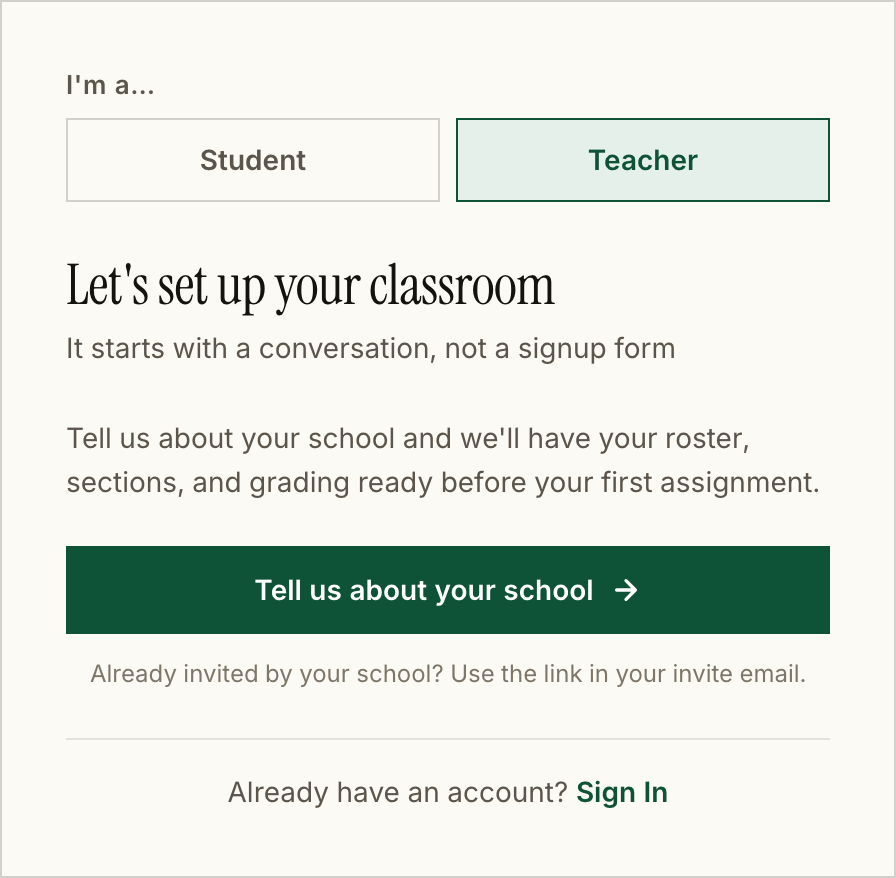
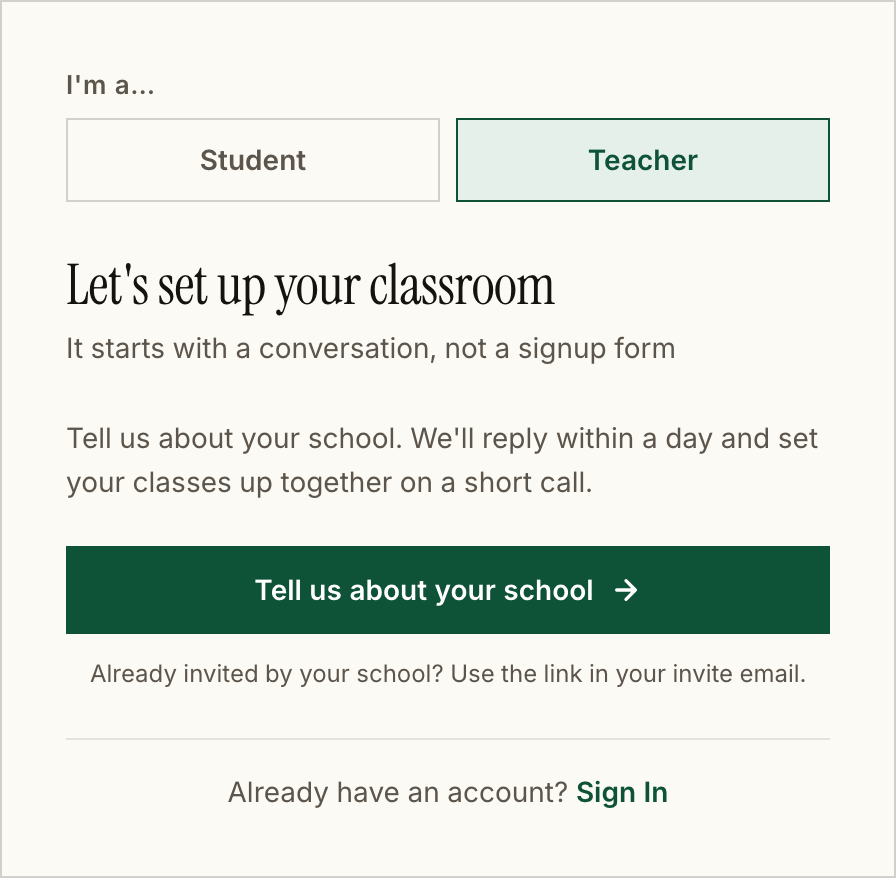
fix(register): stop promising a roster we don't build, and fix the a11y
Independent review of the branch.

The teacher panel promised "your roster, sections, and grading ready
before your first assignment." /demo's own timeline says otherwise: a
reply within 24 hours, a 15-minute call, we create the school — and then
the teacher creates their own courses and sections, and students join by
code. There is no roster import anywhere in the API. The copy now
matches what actually happens.

The picker declared role="radiogroup" but had no roving tabIndex and no
key handler, so a screen reader announced a choice the keyboard couldn't
make, and both radios were separate tab stops. Arrow keys move the
selection now, and the group is a single tab stop.

The CTA hardcoded text-white on bg-primary. --color-text-on-primary
flips to near-black under the dark theme for contrast, which is why the
Button component uses the token — white on the dark-mode green is about
3.0:1. The fine print used text-muted at 12px, which the token's own
comment reserves for >=18px; the sibling helper line in this same form
already used text-secondary.

The arrow icon can now shrink out of the way on a narrow phone, and the
teacher branch is gated on !lockEmail like the picker that drives it —
otherwise a stale selection could render an invite heading above a demo
CTA with no control to escape it.

Also drops a comment three lines from the new state that still claimed
"there's no role toggle here."

Claude-Session: https://claude.ai/code/session_01N4FWkYJEnDJkjUpt49SLF5

Changed region(s): [[0.0625, 0.492, 0.9062, 0.5843]]

diff --git a/web/src/app/register/page.tsx b/web/src/app/register/page.tsx
@@ -51,9 +51,10 @@ function RegisterPageContent() {
   const inviteToken = searchParams.get("invite");
   const sectionInviteToken = searchParams.get("section_invite");
 
-  // Self-signup is student-only. Veradic is sold to schools: teachers never
-  // self-register — they arrive through a teacher invite (authoritative on
-  // role) or their school books a demo. So there's no role toggle here.
+  // The form itself only ever creates students. Veradic is sold to
+  // schools, so a teacher belongs on the demo path (or their school's
+  // invite link), not here — the picker below routes them there rather
+  // than letting them sign up into the wrong kind of account.
   const [invite, setInvite] = useState<InviteData | null>(null);
   const [sectionInvite, setSectionInvite] = useState<SectionInviteData | null>(null);
   const [inviteLoading, setInviteLoading] = useState(!!inviteToken || !!sectionInviteToken);
@@ -275,6 +276,20 @@ function RegisterPageContent() {
                   type="button"
                   role="radio"
                   aria-checked={audience === role}
+                  // A radiogroup is one tab stop, and arrows move within it.
+                  // Without this the role announces a choice the keyboard
+                  // can't actually make.
+                  tabIndex={audience === role ? 0 : -1}
+                  onKeyDown={(e) => {
+                    if (!["ArrowLeft", "ArrowRight", "ArrowUp", "ArrowDown"].includes(e.key)) return;
+                    e.preventDefault();
+                    const next = audience === "student" ? "teacher" : "student";
+                    setAudience(next);
+                    e.currentTarget.parentElement
+                      ?.querySelector<HTMLButtonElement>(`[data-audience="${next}"]`)
+                      ?.focus();
+                  }}
+                  data-audience={role}
                   onClick={() => setAudience(role)}
                   className={`flex-1 rounded-[--radius-sm] border py-2.5 text-sm font-semibold capitalize transition-colors ${
                     audience === role
@@ -328,22 +343,22 @@ function RegisterPageContent() {
           </>
         )}
 
-        {audience === "teacher" ? (
+        {audience === "teacher" && !lockEmail ? (
           <div className="mt-6">
             <p className="text-sm leading-relaxed text-text-secondary">
-              Tell us about your school and we&apos;ll have your roster,
-              sections, and grading ready before your first assignment.
+              Tell us about your school. We&apos;ll reply within a day and set
+              your classes up together on a short call.
             </p>
             <Link
               href="/demo"
-              className="mt-5 flex w-full items-center justify-center gap-2 rounded-[--radius-sm] bg-primary px-4 py-3 text-sm font-semibold text-white transition-colors hover:bg-primary-dark"
+              className="mt-5 flex w-full items-center justify-center gap-2 rounded-[--radius-sm] bg-primary px-4 py-3 text-sm font-semibold text-text-on-primary transition-colors hover:bg-primary-dark"
             >
               Tell us about your school
-              <svg className="h-4 w-4" viewBox="0 0 24 24" fill="none" stroke="currentColor" strokeWidth="2.5" strokeLinecap="round" strokeLinejoin="round">
+              <svg className="h-4 w-4 shrink-0" viewBox="0 0 24 24" fill="none" stroke="currentColor" strokeWidth="2.5" strokeLinecap="round" strokeLinejoin="round">
                 <path d="M5 12h14M12 5l7 7-7 7" />
               </svg>
             </Link>
-            <p className="mt-3 text-center text-xs text-text-muted">
+            <p className="mt-3 text-center text-xs text-text-secondary">
               Already invited by your school? Use the link in your invite email.
             </p>
           </div>
